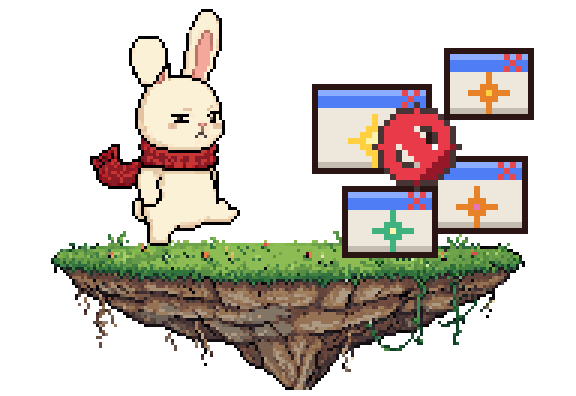
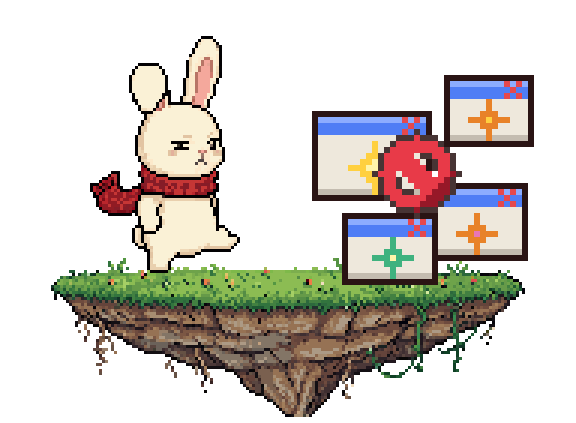
Site, sem anúncios: folga em cima da cena, e o pulo do coelho não corta mais as orelhas
Relato do Sydenstricker: em alguns quadros as orelhas saíam cortadas — o pulo do feliz (7 px, no
código) passava da borda de cima. A cena ganhou 9 px no topo; em todos os quadros o desenho
começa 12 px abaixo da borda.

diff --git a/web/site/site.css b/web/site/site.css
@@ -526,7 +526,7 @@ section h2 {
 }
 
 /* A cena do sem anúncios (#dados): pixel art solta, sem moldura de captura — ela não é uma tela do app. Cresce só
-   em múltiplos do pixel dela (192 × 132, exportada a 3×) e sem suavizar, senão o pixel vira borrão. */
+   em múltiplos do pixel dela (192 × 141, exportada a 3×) e sem suavizar, senão o pixel vira borrão. */
 .sem-anuncio {
   margin: 0;
   justify-self: center;

diff --git a/web/site/index.html b/web/site/index.html
@@ -221,7 +221,7 @@
               <img
                 src="sem-anuncio.webp"
                 width="576"
-                height="396"
+                height="423"
                 loading="lazy"
                 alt="Janelas de anúncio piscando pipocam em volta de um coelho de cachecol; um símbolo de proibido cai sobre elas, elas se desfazem em pixels, e o coelho ganha um coração"
               />

diff --git a/e2e/pixel-art/sem-anuncio/sem-anuncio.py b/e2e/pixel-art/sem-anuncio/sem-anuncio.py
@@ -90,9 +90,11 @@ def janela(a, x0, y0, w, h, miolo, piscando):
 # A cena tem o DOBRO da resolução da mineração: o coelho e a ilha vêm do PixelLab (gerar.mjs) e nasceram
 # assim. As janelas, o proibido e o coração continuam desenhados por código na grade antiga (96 × 64) e são
 # ampliados 2× — a parte da cena que ele aprovou fica igual.
-CW, CH, CESCALA = 192, 132, 3
-COELHO_X, COELHO_Y = 30, 2
-ILHA_Y = 66  # a grama da ilha (linha 16 da figura) fica na altura dos pés do coelho
+# TOPO: a folga em cima, para o pulo do feliz (7 px) não cortar as orelhas (relato dele, 13/10/2026).
+TOPO = 9
+CW, CH, CESCALA = 192, 132 + TOPO, 3
+COELHO_X, COELHO_Y = 30, 2 + TOPO
+ILHA_Y = 66 + TOPO  # a grama da ilha (linha 16 da figura) fica na altura dos pés do coelho
 
 
 def recortar(arquivo):
@@ -173,7 +175,7 @@ def montar(pasta):
         if 3.2 <= t < 4.7:
             subida = (t - 3.2) * 5
             camada.alpha_composite(jogo.CORACAO, (44, max(0, int(14 - subida))))
-        cena.alpha_composite(camada.resize((W * 2, H * 2), Image.NEAREST), (0, 0))
+        cena.alpha_composite(camada.resize((W * 2, H * 2), Image.NEAREST), (0, TOPO))
 
         if t >= 4.7:
             fade = np.array(cena)
